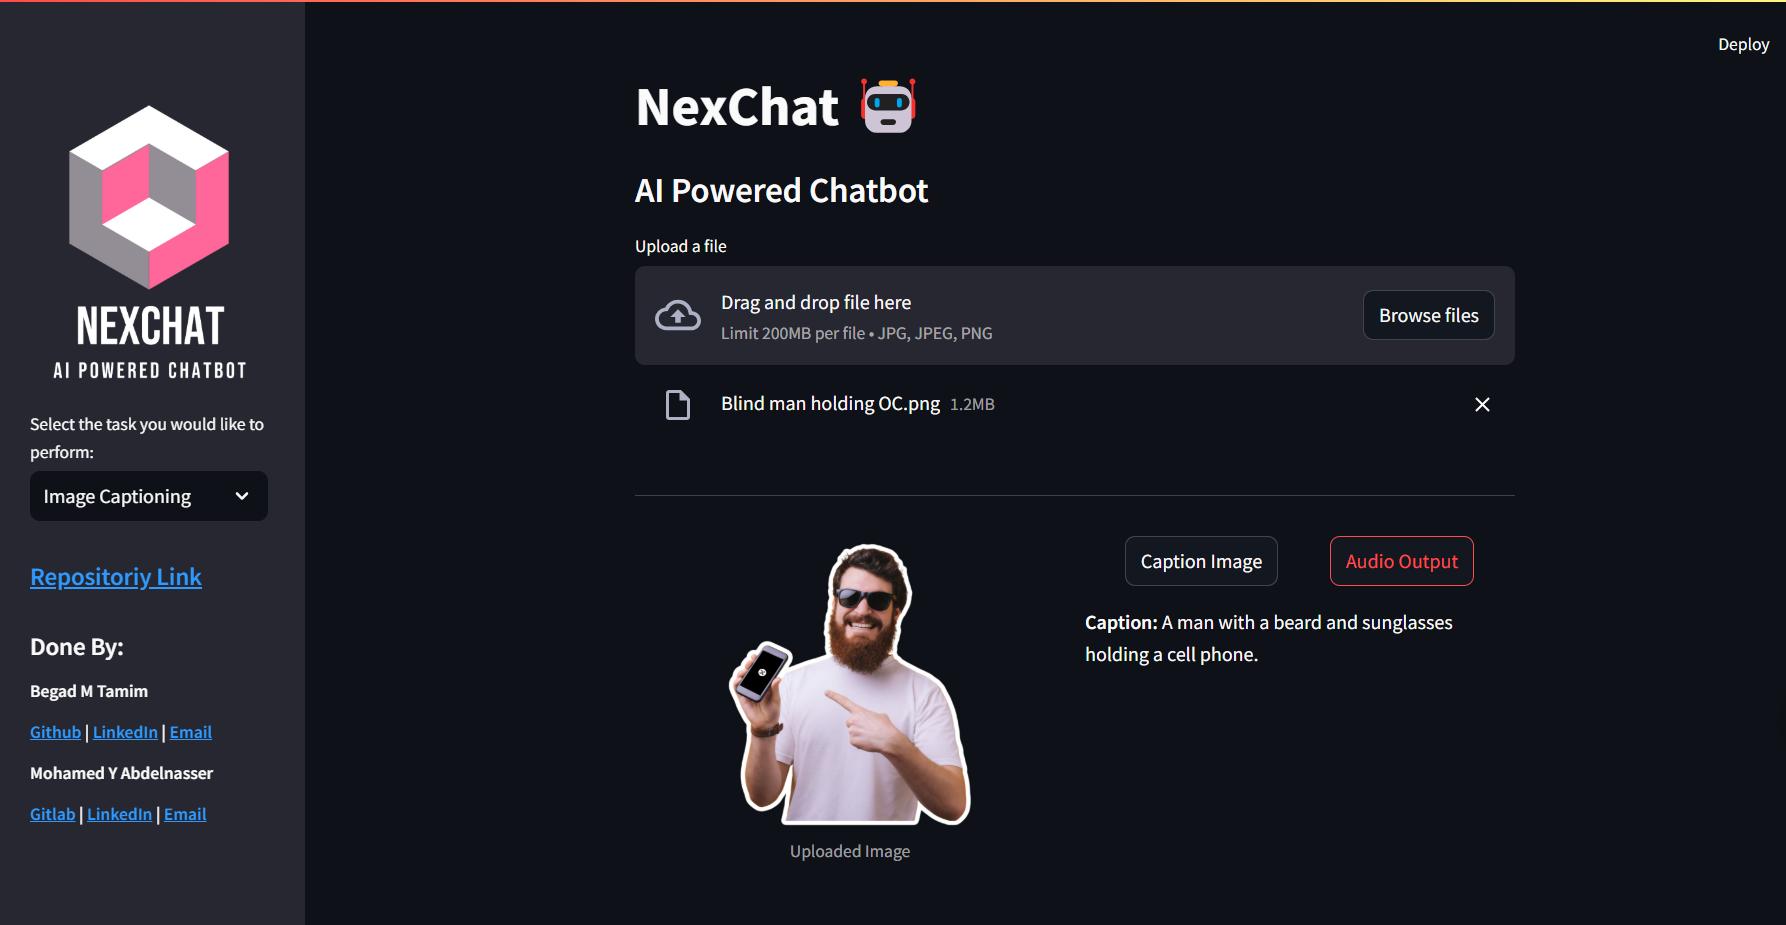
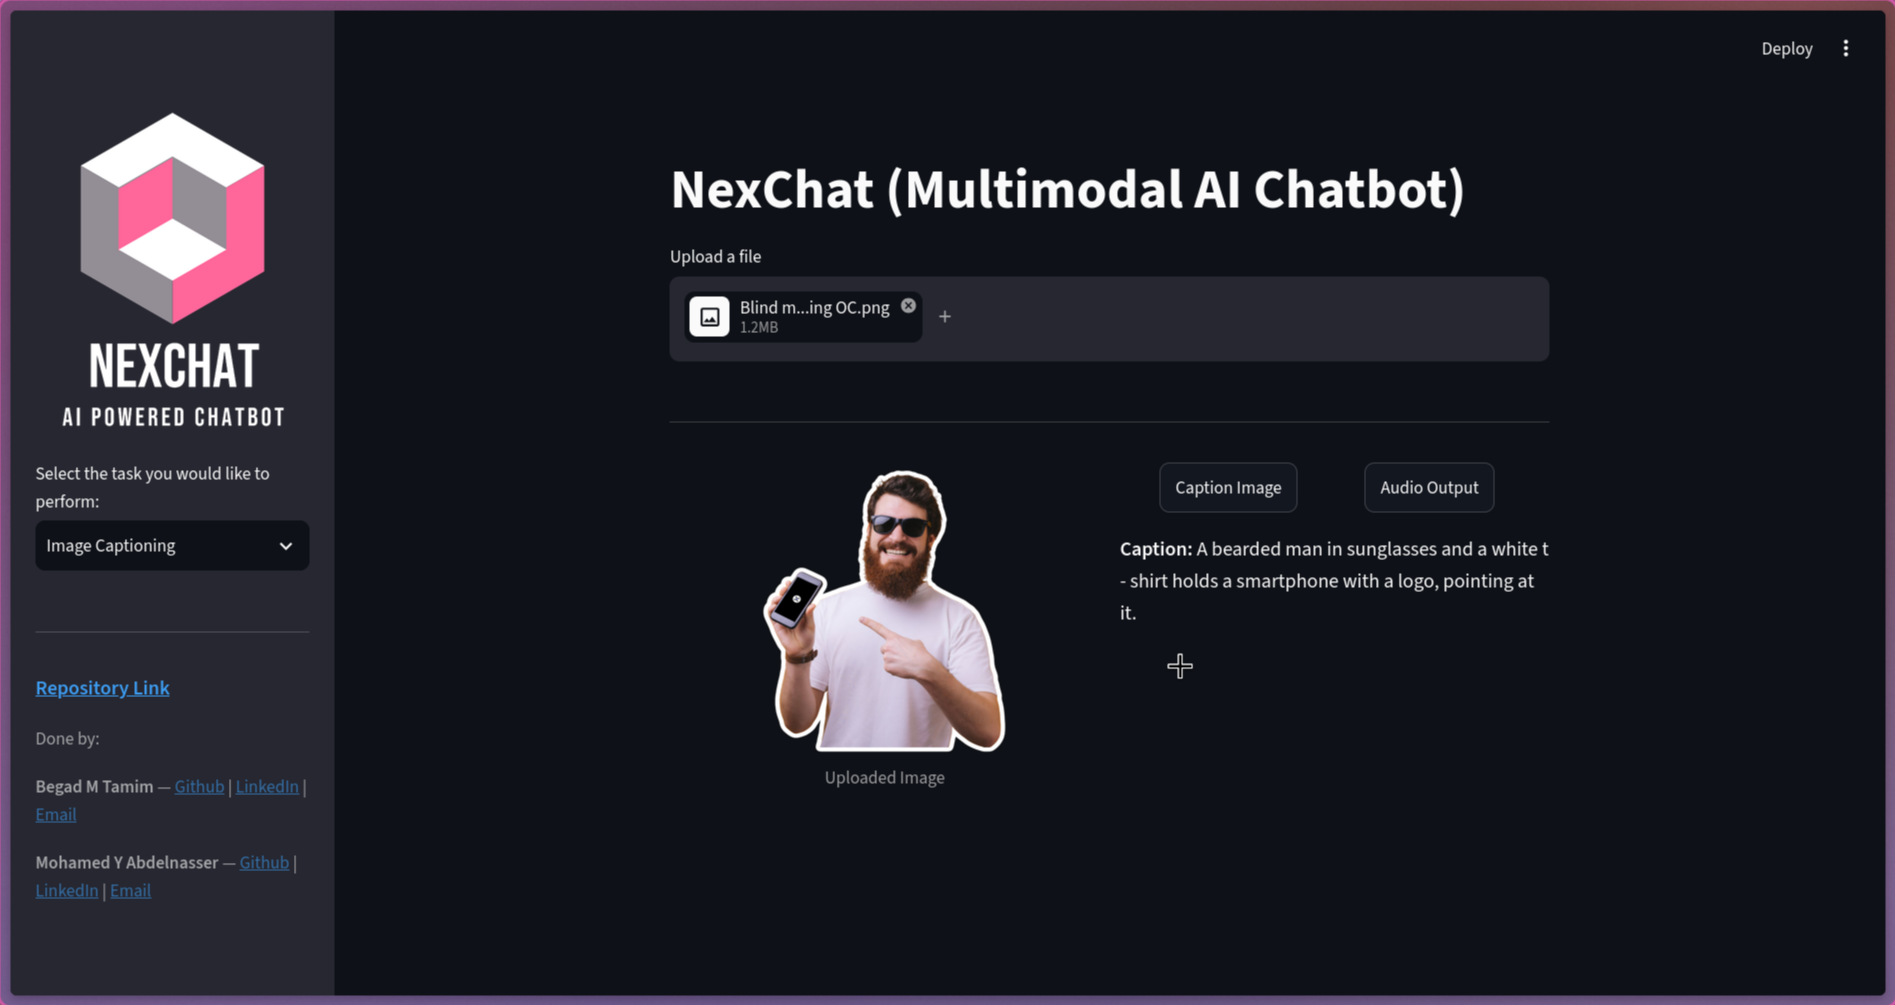
fix: remove CSV from Text Summarization's accepted file types
Confirmed via live testing (see the previous commit) that CSV text
produces garbage output regardless of summarization model — CSVs
aren't prose. Rather than accept uploads the feature can't handle
well, drop csv from the file_uploader's type list.

QA's file uploader intentionally keeps CSV support — it goes through
the RAG/LLM chain rather than a dedicated summarizer, a different
mechanism that wasn't shown to have the same problem. Locked both
behaviors in with regression tests.

diff --git a/tests/test_app_summarization_branch.py b/tests/test_app_summarization_branch.py
@@ -1,0 +1,42 @@
+from pathlib import Path
+
+from streamlit.testing.v1 import AppTest
+
+# AppTest.from_file() resolves relative paths against the *calling test file's*
+# directory, not the CWD — so build an absolute path off this file instead.
+APP_PATH = str(Path(__file__).resolve().parent.parent / "src" / "app.py")
+
+
+def test_summarization_file_uploader_does_not_accept_csv(monkeypatch):
+    import credentials
+
+    monkeypatch.setattr(credentials, "get_glm_key", lambda: "test-glm-key")
+    monkeypatch.setattr(credentials, "get_huggingface_key", lambda: "test-hf-key")
+
+    at = AppTest.from_file(APP_PATH, default_timeout=30)
+    at.run()
+    at.sidebar.selectbox[0].select("Text Summarization").run()
+    at.radio[0].set_value("File").run()
+
+    allowed = at.file_uploader[0].allowed_type
+    assert "csv" not in allowed and ".csv" not in allowed, f"csv still allowed: {allowed}"
+    assert not at.exception
+
+
+def test_qa_file_uploader_still_accepts_csv(monkeypatch):
+    # CSV summarization produces garbage on every model tested (not prose),
+    # so it was removed from Summarization — but QA goes through the RAG/LLM
+    # chain instead of a dedicated summarizer, a different mechanism that
+    # wasn't shown to have the same problem, so it keeps CSV support.
+    import credentials
+
+    monkeypatch.setattr(credentials, "get_glm_key", lambda: "test-glm-key")
+    monkeypatch.setattr(credentials, "get_huggingface_key", lambda: "test-hf-key")
+
+    at = AppTest.from_file(APP_PATH, default_timeout=30)
+    at.run()
+    at.sidebar.selectbox[0].select("Question Answering").run()
+
+    allowed = at.file_uploader[0].allowed_type
+    assert ".csv" in allowed, f"csv unexpectedly missing: {allowed}"
+    assert not at.exception

diff --git a/src/app.py b/src/app.py
@@ -50,7 +50,7 @@ st.set_page_config(
 st.title("NexChat (Multimodal AI Chatbot)")
 
 # Display logo
-st.sidebar.image(str(asset_path("logo.png")), width=120)
+st.sidebar.image(str(asset_path("logo.png")), width="stretch")
 
 # Display task selection
 task_name = st.sidebar.selectbox(
@@ -95,7 +95,7 @@ if task_name == "Image Captioning":
         _, col21, col22 = col2.columns([1, 6, 6])
 
         # Display the uploaded image in the first column
-        col1.image(uploaded_files, caption="Uploaded Image", use_container_width=True)
+        col1.image(uploaded_files, caption="Uploaded Image", width="stretch")
 
         # Display the caption button in the second column
         if col21.button("Caption Image"):
@@ -167,7 +167,7 @@ elif task_name == "Text Summarization":
     else:
         uploaded_files = st.file_uploader(
             "Upload a file",
-            type=["pdf", "csv", "txt", "md"],
+            type=["pdf", "txt", "md"],
             accept_multiple_files=False,
         )
         if uploaded_files:
